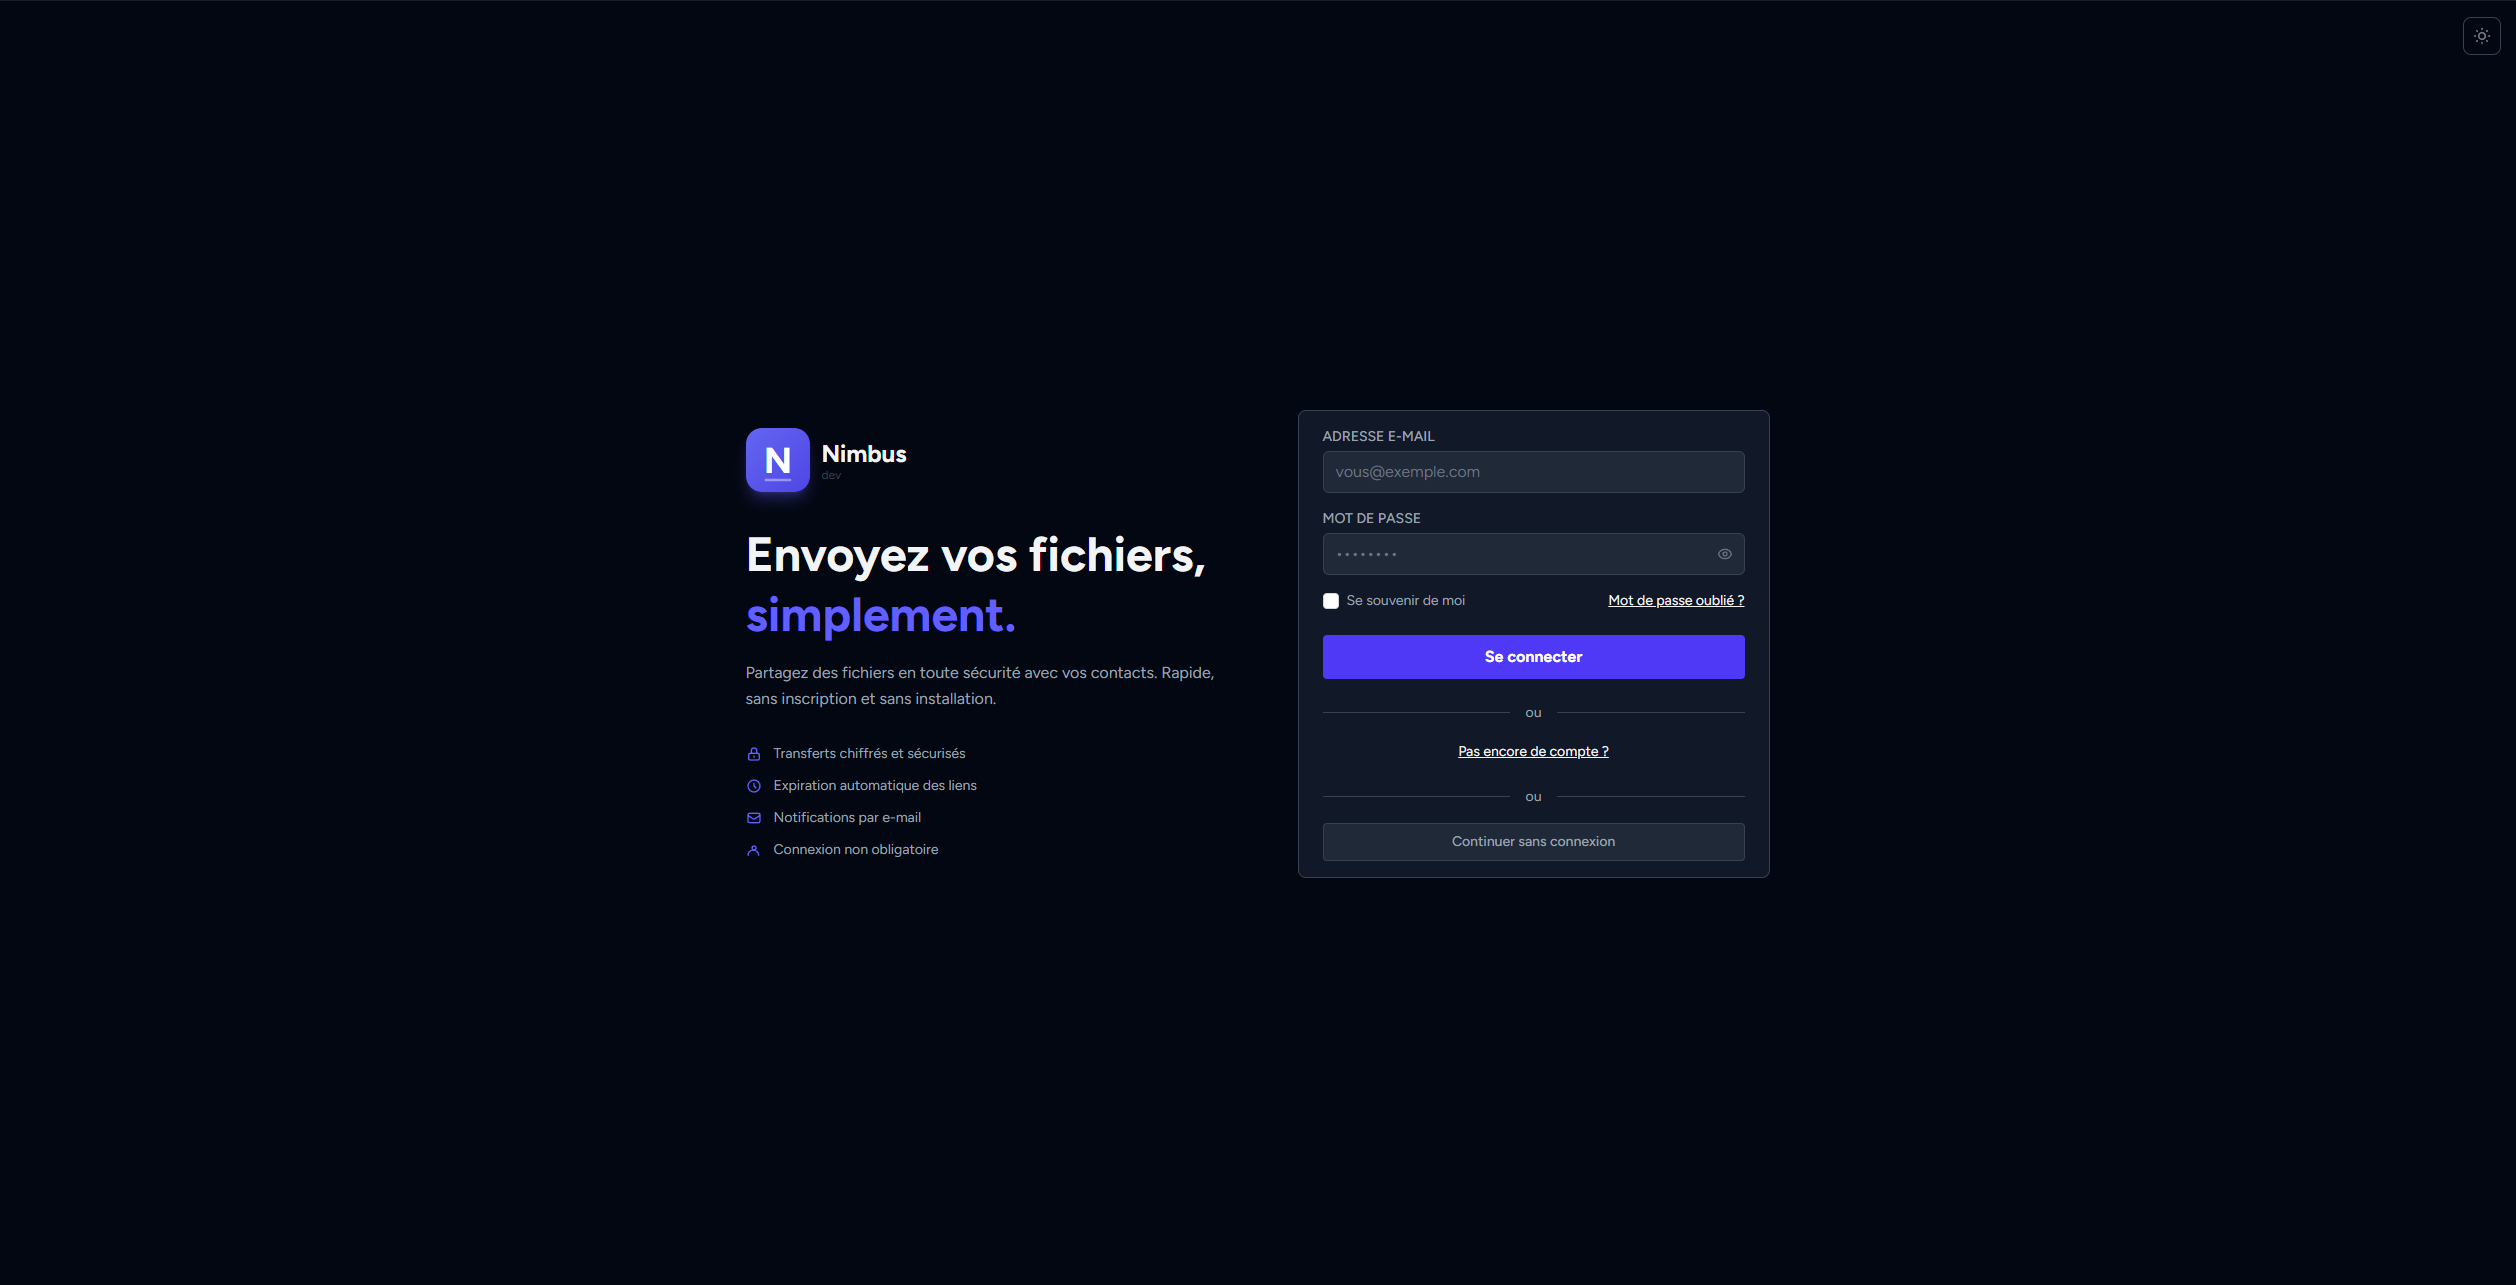
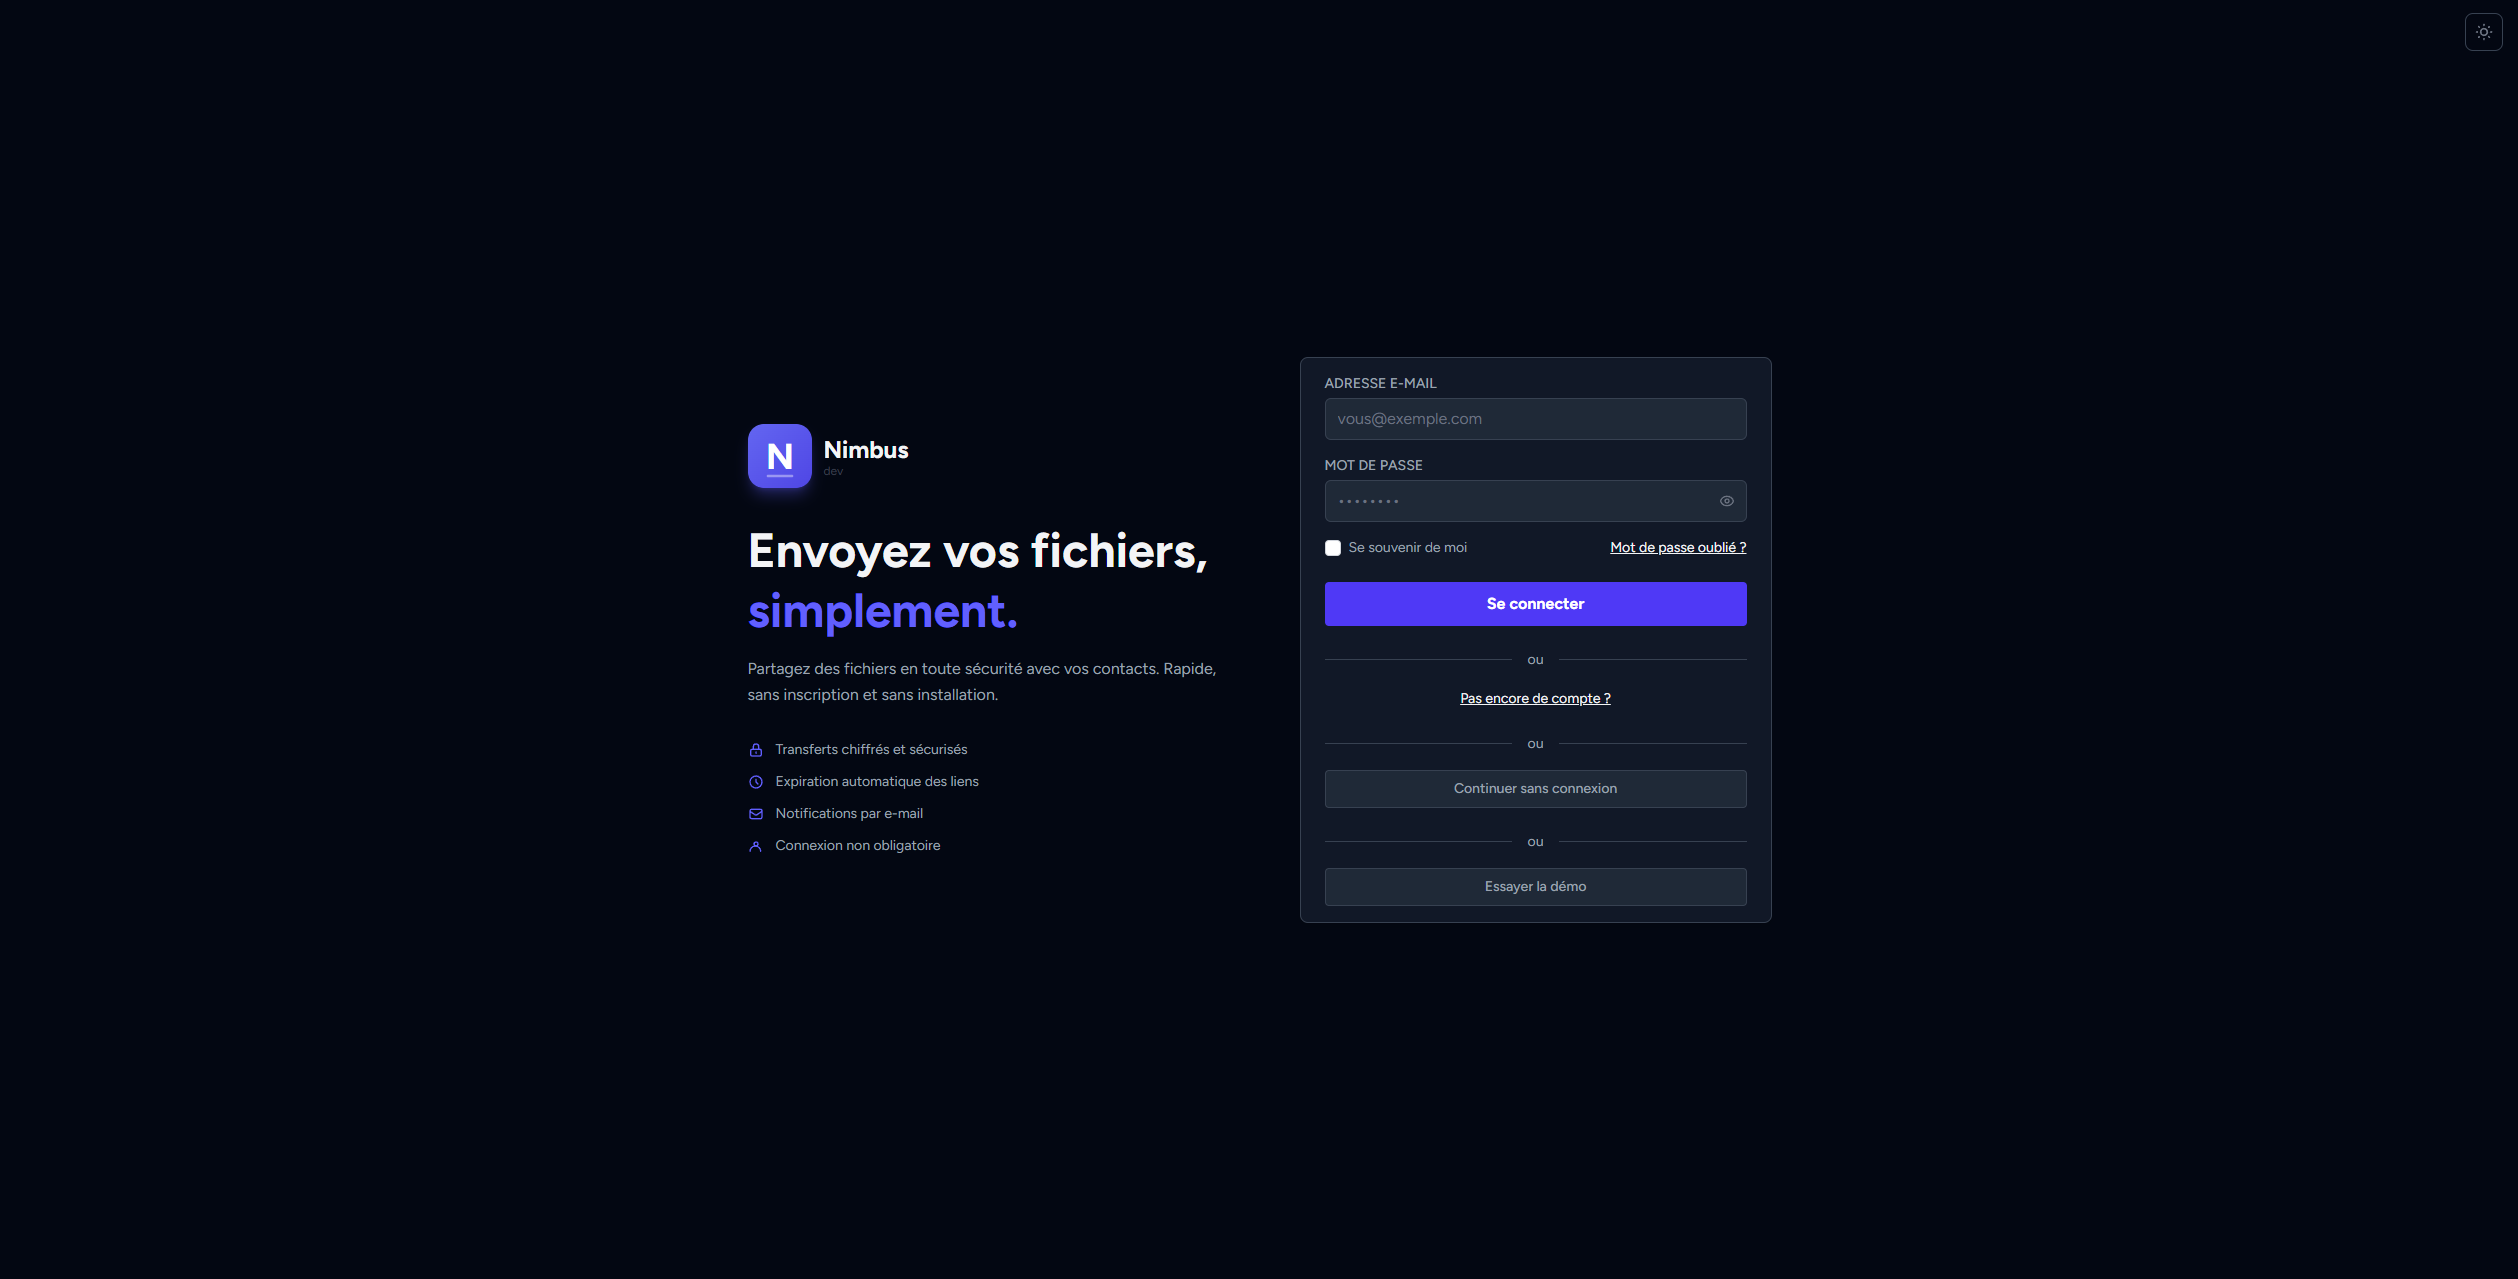
feat: demo user

diff --git a/src/Command/DemoSeedCommand.php b/src/Command/DemoSeedCommand.php
@@ -1,0 +1,69 @@
+<?php
+
+declare(strict_types=1);
+
+namespace App\Command;
+
+use App\Entity\User;
+use App\Enum\PlanEnum;
+use App\Repository\UserRepository;
+use Doctrine\ORM\EntityManagerInterface;
+use Symfony\Component\Console\Attribute\AsCommand;
+use Symfony\Component\Console\Command\Command;
+use Symfony\Component\Console\Input\InputInterface;
+use Symfony\Component\Console\Input\InputOption;
+use Symfony\Component\Console\Output\OutputInterface;
+use Symfony\Component\Console\Style\SymfonyStyle;
+use Symfony\Component\PasswordHasher\Hasher\UserPasswordHasherInterface;
+
+#[AsCommand(
+    name: 'nimbus:demo:seed',
+    description: 'Crée ou recrée le compte utilisateur de démonstration.',
+)]
+class DemoSeedCommand extends Command
+{
+    public function __construct(
+        private readonly UserRepository $userRepository,
+        private readonly EntityManagerInterface $entityManager,
+        private readonly UserPasswordHasherInterface $passwordHasher,
+    ) {
+        parent::__construct();
+    }
+
+    protected function configure(): void
+    {
+        $this
+            ->addOption('email', null, InputOption::VALUE_REQUIRED, 'Email du compte demo', 'demo@nimbus.app')
+            ->addOption('password', null, InputOption::VALUE_REQUIRED, 'Mot de passe du compte demo', 'demo');
+    }
+
+    protected function execute(InputInterface $input, OutputInterface $output): int
+    {
+        $symfonyStyle = new SymfonyStyle($input, $output);
+
+        $email = (string) $input->getOption('email');
+        $password = (string) $input->getOption('password');
+
+        $existing = $this->userRepository->findDemoUser();
+
+        if ($existing instanceof User) {
+            $this->entityManager->remove($existing);
+            $this->entityManager->flush();
+            $symfonyStyle->note('Ancien compte demo supprimé.');
+        }
+
+        $user = new User();
+        $user->setEmail($email);
+        $user->setName('Demo');
+        $user->setPassword($this->passwordHasher->hashPassword($user, $password));
+        $user->setIsDemo(true);
+        $user->setPlan(PlanEnum::Pro);
+
+        $this->entityManager->persist($user);
+        $this->entityManager->flush();
+
+        $symfonyStyle->success(sprintf('Compte demo créé : %s', $email));
+
+        return Command::SUCCESS;
+    }
+}

diff --git a/src/Controller/Api/TransferApiController.php b/src/Controller/Api/TransferApiController.php
@@ -62,8 +62,9 @@ class TransferApiController extends AbstractController
 
         $data = json_decode($request->getContent(), true);
 
-        $maxRecipients = $planService->getProMaxRecipients();
-        $maxExpiryDays = $planService->getProMaxExpiryDays();
+        $user = $this->getUser();
+        $maxRecipients = $user instanceof User ? $planService->getMaxRecipients($user) : $planService->getFreeMaxRecipients();
+        $maxExpiryHours = $user instanceof User ? $planService->getMaxExpiryHours($user) : $planService->getFreeMaxExpiryHours();
         $isPublic = isset($data['isPublic']) && true === $data['isPublic'];
 
         $fields = [
@@ -72,7 +73,7 @@ class TransferApiController extends AbstractController
             'message' => new Assert\Optional(new Assert\Length(max: 2000)),
             'isPublic' => new Assert\Optional(new Assert\Type('bool')),
             'expiresInHours' => new Assert\Optional([
-                new Assert\Range(min: 1, max: $maxExpiryDays * 24),
+                new Assert\Range(min: 1, max: $maxExpiryHours),
             ]),
             'password' => new Assert\Optional(new Assert\Length(min: 4, max: 128)),
         ];
@@ -99,7 +100,6 @@ class TransferApiController extends AbstractController
             return $this->json(['errors' => $errors], Response::HTTP_UNPROCESSABLE_ENTITY);
         }
 
-        $user = $this->getUser();
         $transfer = $transferManager->create(
             array_merge($data, ['isPublic' => $isPublic]),
             $user instanceof User ? $user : null,

diff --git a/src/Controller/DemoController.php b/src/Controller/DemoController.php
@@ -1,0 +1,48 @@
+<?php
+
+declare(strict_types=1);
+
+namespace App\Controller;
+
+use App\Entity\User;
+use App\Repository\UserRepository;
+use Symfony\Bundle\FrameworkBundle\Controller\AbstractController;
+use Symfony\Bundle\SecurityBundle\Security;
+use Symfony\Component\DependencyInjection\Attribute\Autowire;
+use Symfony\Component\HttpFoundation\RedirectResponse;
+use Symfony\Component\HttpFoundation\Request;
+use Symfony\Component\Routing\Attribute\Route;
+
+final class DemoController extends AbstractController
+{
+    #[Route('/demo/login', name: 'app_demo_login', methods: ['POST'])]
+    public function login(
+        Request $request,
+        UserRepository $userRepository,
+        Security $security,
+        #[Autowire('%env(bool:DEMO_ENABLED)%')]
+        bool $demoEnabled,
+    ): RedirectResponse {
+        if (!$demoEnabled) {
+            throw $this->createNotFoundException();
+        }
+
+        if (!$this->isCsrfTokenValid('demo_login', $request->request->get('_csrf_token'))) {
+            $this->addFlash('error', 'error.csrf_invalid');
+
+            return $this->redirectToRoute('app_login');
+        }
+
+        $user = $userRepository->findDemoUser();
+
+        if (!$user instanceof User) {
+            $this->addFlash('error', 'demo.unavailable');
+
+            return $this->redirectToRoute('app_login');
+        }
+
+        $security->login($user, firewallName: 'main');
+
+        return $this->redirectToRoute('home');
+    }
+}

diff --git a/src/Controller/SecurityController.php b/src/Controller/SecurityController.php
@@ -6,6 +6,7 @@ namespace App\Controller;
 
 use LogicException;
 use Symfony\Bundle\FrameworkBundle\Controller\AbstractController;
+use Symfony\Component\DependencyInjection\Attribute\Autowire;
 use Symfony\Component\HttpFoundation\Response;
 use Symfony\Component\Routing\Attribute\Route;
 use Symfony\Component\Security\Core\User\UserInterface;
@@ -14,8 +15,11 @@ use Symfony\Component\Security\Http\Authentication\AuthenticationUtils;
 final class SecurityController extends AbstractController
 {
     #[Route('/login', name: 'app_login')]
-    public function login(AuthenticationUtils $authenticationUtils): Response
-    {
+    public function login(
+        AuthenticationUtils $authenticationUtils,
+        #[Autowire('%env(bool:DEMO_ENABLED)%')]
+        bool $demoEnabled,
+    ): Response {
         if ($this->getUser() instanceof UserInterface) {
             return $this->redirectToRoute('home');
         }
@@ -23,6 +27,7 @@ final class SecurityController extends AbstractController
         return $this->render('security/login.html.twig', [
             'last_username' => $authenticationUtils->getLastUsername(),
             'error' => $authenticationUtils->getLastAuthenticationError(),
+            'demoEnabled' => $demoEnabled,
         ]);
     }
 

diff --git a/tests/Unit/Manager/TransferManagerTest.php b/tests/Unit/Manager/TransferManagerTest.php
@@ -88,8 +88,8 @@ final class TransferManagerTest extends TestCase
         $tusService->method('getUpload')->willReturn(null);
 
         $planService = $this->createStub(PlanService::class);
-        $planService->method('getProMaxFiles')->willReturn(20);
-        $planService->method('getProMaxSizeMb')->willReturn(10000);
+        $planService->method('getFreeMaxFiles')->willReturn(20);
+        $planService->method('getFreeMaxSizeMb')->willReturn(10000);
 
         $notifier = $this->createMock(TransferNotifierInterface::class);
         $notifier->expects(self::once())->method('notifyReady');
@@ -122,8 +122,8 @@ final class TransferManagerTest extends TestCase
         $tusService->method('getUpload')->willReturn($uploadData);
 
         $planService = $this->createStub(PlanService::class);
-        $planService->method('getProMaxFiles')->willReturn(20);
-        $planService->method('getProMaxSizeMb')->willReturn(10000);
+        $planService->method('getFreeMaxFiles')->willReturn(20);
+        $planService->method('getFreeMaxSizeMb')->willReturn(10000);
 
         $notifier = $this->createMock(TransferNotifierInterface::class);
         $notifier->expects(self::once())->method('notifyReady')->with($transfer);

diff --git a/src/Entity/User.php b/src/Entity/User.php
@@ -53,6 +53,9 @@ class User implements UserInterface, PasswordAuthenticatedUserInterface
     #[ORM\Column(nullable: true)]
     private ?int $customFileSizeMb = null;
 
+    #[ORM\Column(options: ['default' => false])]
+    private bool $isDemo = false;
+
     public function getId(): ?int
     {
         return $this->id;
@@ -160,6 +163,18 @@ class User implements UserInterface, PasswordAuthenticatedUserInterface
     public function setLocale(LocaleEnum $locale): static
     {
         $this->locale = $locale;
+
+        return $this;
+    }
+
+    public function isDemo(): bool
+    {
+        return $this->isDemo;
+    }
+
+    public function setIsDemo(bool $isDemo): static
+    {
+        $this->isDemo = $isDemo;
 
         return $this;
     }

diff --git a/src/Service/PlanService.php b/src/Service/PlanService.php
@@ -15,6 +15,8 @@ readonly class PlanService
 {
     public const float PRO_PRICE = 9.99;
 
+    public const int DEMO_MAX_SIZE_MB = 1024;
+
     public function __construct(
         private ApplicationParameterRepository $params,
         private EntityManagerInterface $entityManager,
@@ -39,8 +41,17 @@ readonly class PlanService
         return PlanEnum::Free === $user->getPlan();
     }
 
+    public function isDemo(User $user): bool
+    {
+        return $user->isDemo();
+    }
+
     public function getMaxSizeMb(User $user): int
     {
+        if ($user->isDemo()) {
+            return self::DEMO_MAX_SIZE_MB;
+        }
+
         if (null !== $user->getCustomFileSizeMb()) {
             return $user->getCustomFileSizeMb();
         }

diff --git a/src/Manager/TransferManager.php b/src/Manager/TransferManager.php
@@ -96,8 +96,9 @@ final readonly class TransferManager
      */
     public function finalize(Transfer $transfer, array $uploadKeys, ?string $plainPassword = null): void
     {
-        $maxFiles = $this->planService->getProMaxFiles();
-        $maxSizeMb = $this->planService->getProMaxSizeMb();
+        $user = $transfer->getUser();
+        $maxFiles = $user instanceof User ? $this->planService->getMaxFiles($user) : $this->planService->getFreeMaxFiles();
+        $maxSizeMb = $user instanceof User ? $this->planService->getMaxSizeMb($user) : $this->planService->getFreeMaxSizeMb();
 
         $this->fileValidator->validate($uploadKeys, $maxFiles, $maxSizeMb);
 

diff --git a/migrations/Version20260422000000.php b/migrations/Version20260422000000.php
@@ -1,0 +1,26 @@
+<?php
+
+declare(strict_types=1);
+
+namespace DoctrineMigrations;
+
+use Doctrine\DBAL\Schema\Schema;
+use Doctrine\Migrations\AbstractMigration;
+
+final class Version20260422000000 extends AbstractMigration
+{
+    public function getDescription(): string
+    {
+        return 'Add is_demo flag to users table';
+    }
+
+    public function up(Schema $schema): void
+    {
+        $this->addSql('ALTER TABLE users ADD is_demo BOOLEAN DEFAULT FALSE NOT NULL');
+    }
+
+    public function down(Schema $schema): void
+    {
+        $this->addSql('ALTER TABLE users DROP is_demo');
+    }
+}

diff --git a/src/Repository/UserRepository.php b/src/Repository/UserRepository.php
@@ -25,6 +25,11 @@ class UserRepository extends ServiceEntityRepository implements PasswordUpgrader
         parent::__construct($registry, User::class);
     }
 
+    public function findDemoUser(): ?User
+    {
+        return $this->findOneBy(['isDemo' => true]);
+    }
+
     public function upgradePassword(PasswordAuthenticatedUserInterface $user, string $newHashedPassword): void
     {
         if (!$user instanceof User) {

diff --git a/src/Service/AccessChecker.php b/src/Service/AccessChecker.php
@@ -28,7 +28,7 @@ class AccessChecker
             return true;
         }
 
-        if ($user instanceof User && $this->isAdminEmail($user->getEmail())) {
+        if ($user instanceof User && ($this->isAdminEmail($user->getEmail()) || $user->isDemo())) {
             return true;
         }
 
